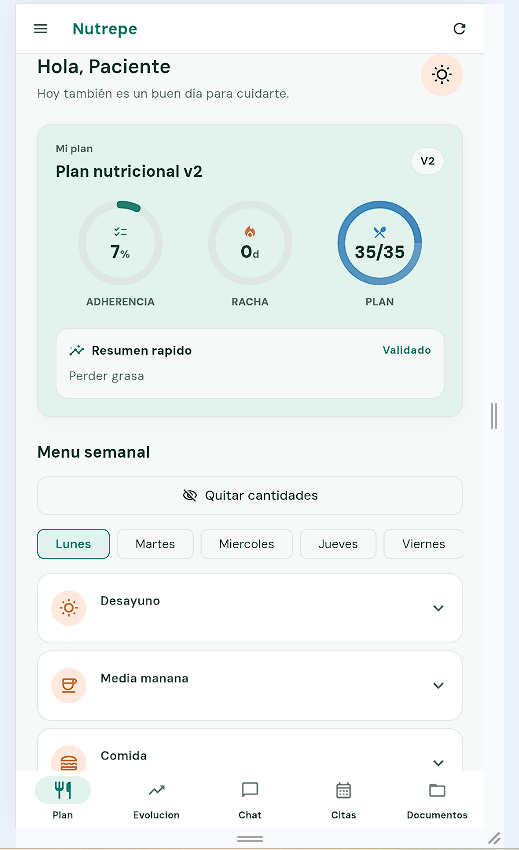
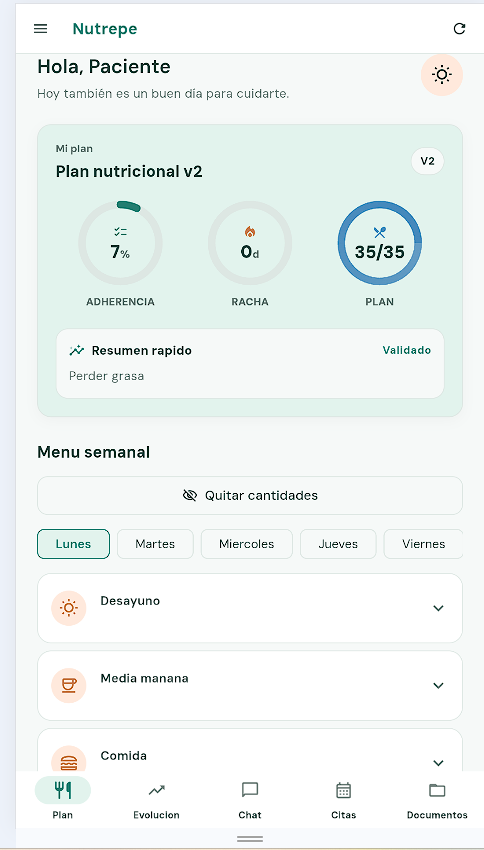
changes

diff --git a/src/app/ui/phone-frame.component.ts b/src/app/ui/phone-frame.component.ts
@@ -10,7 +10,7 @@ import { Component, Input } from '@angular/core';
         (tone === 'dark' ? 'ring-1 ring-white/15' : '') +
         ' ' +
         (compact
-          ? 'w-[132px] rounded-[1.6rem] border-[3px] border-black p-1'
+          ? 'w-[168px] rounded-[2rem] border-[4px] border-black p-1.5'
           : 'w-[260px] rounded-[2.6rem] border-[5px] border-black p-1.5 sm:w-[300px]') +
         ' ' +
         className
@@ -20,20 +20,20 @@ import { Component, Input } from '@angular/core';
       <span
         [class]="
           'absolute right-[-3px] rounded-r-sm bg-neutral-700 ' +
-          (compact ? 'top-6 h-4 w-[2.5px]' : 'top-14 h-8 w-[3px]')
+          (compact ? 'top-9 h-5 w-[3px]' : 'top-14 h-8 w-[3px]')
         "
       ></span>
 
       <div
         [class]="
           'relative overflow-hidden bg-white ' +
-          (compact ? 'h-[224px] rounded-[1.25rem]' : 'h-[440px] rounded-[2.15rem] sm:h-[508px]')
+          (compact ? 'h-[286px] rounded-[1.6rem]' : 'h-[440px] rounded-[2.15rem] sm:h-[508px]')
         "
       >
         <div
           [class]="
             'absolute left-1/2 z-10 -translate-x-1/2 rounded-full bg-black ' +
-            (compact ? 'top-1.5 h-2.5 w-10' : 'top-2.5 h-4 w-20')
+            (compact ? 'top-2 h-3 w-12' : 'top-2.5 h-4 w-20')
           "
         ></div>
         <ng-content></ng-content>

diff --git a/src/app/sections/hero/hero.component.html b/src/app/sections/hero/hero.component.html
@@ -44,13 +44,13 @@
 
       <div class="absolute -left-10 top-6 hidden animate-float xl:block">
         <app-phone-frame [compact]="true" className="shadow-xl">
-          <img src="app/chat.png" alt="Asistente inteligente de Nutrepe" class="h-full w-full scale-125 object-contain" />
+          <img src="app/chat.png" alt="Asistente inteligente de Nutrepe" class="h-full w-full object-contain" />
         </app-phone-frame>
       </div>
 
       <div class="absolute -right-10 bottom-10 hidden animate-float xl:block" style="animation-delay: 1.2s">
         <app-phone-frame [compact]="true" className="shadow-xl">
-          <img src="app/evolucion.png" alt="Mi evolución en la app Nutrepe" class="h-full w-full scale-125 object-contain" />
+          <img src="app/evolucion.png" alt="Mi evolución en la app Nutrepe" class="h-full w-full object-contain" />
         </app-phone-frame>
       </div>
     </div>
